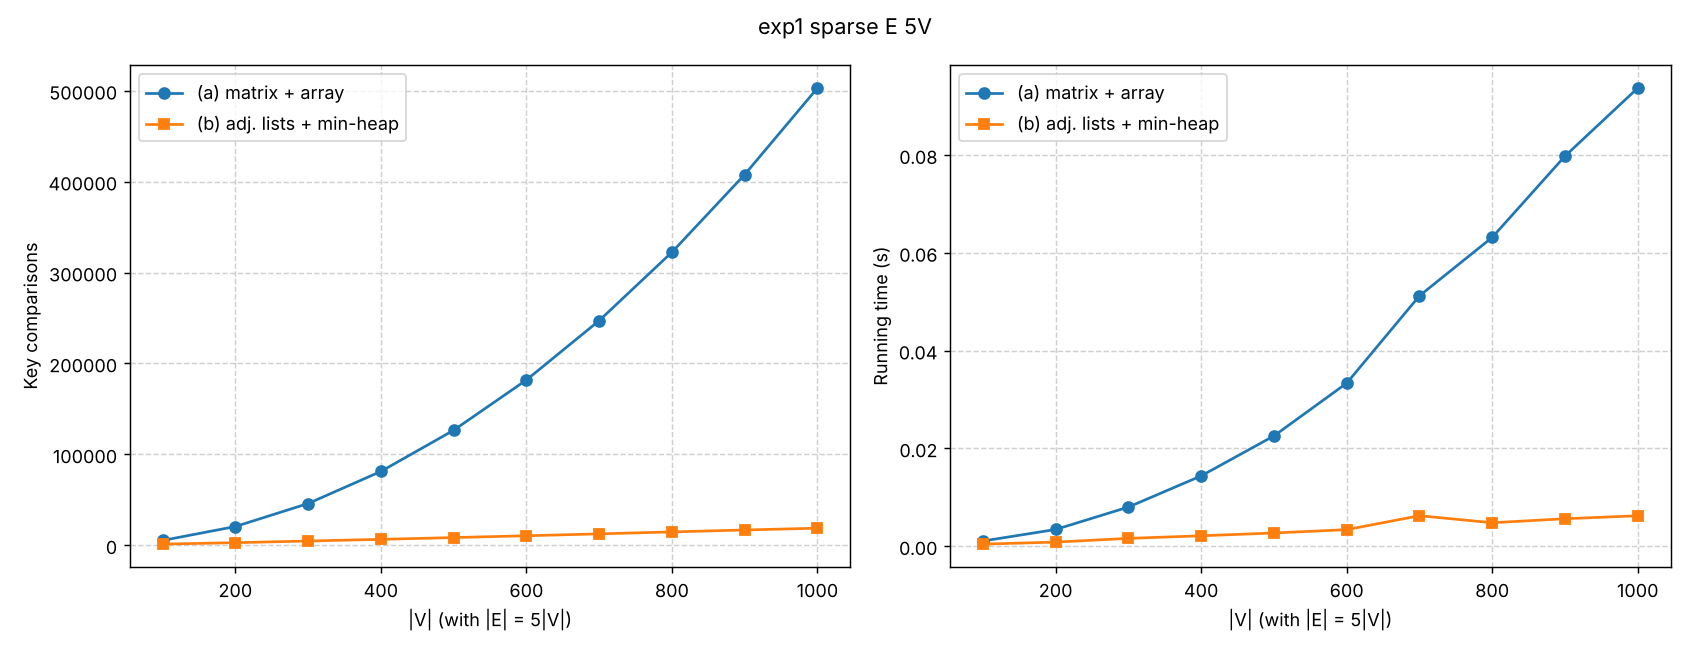
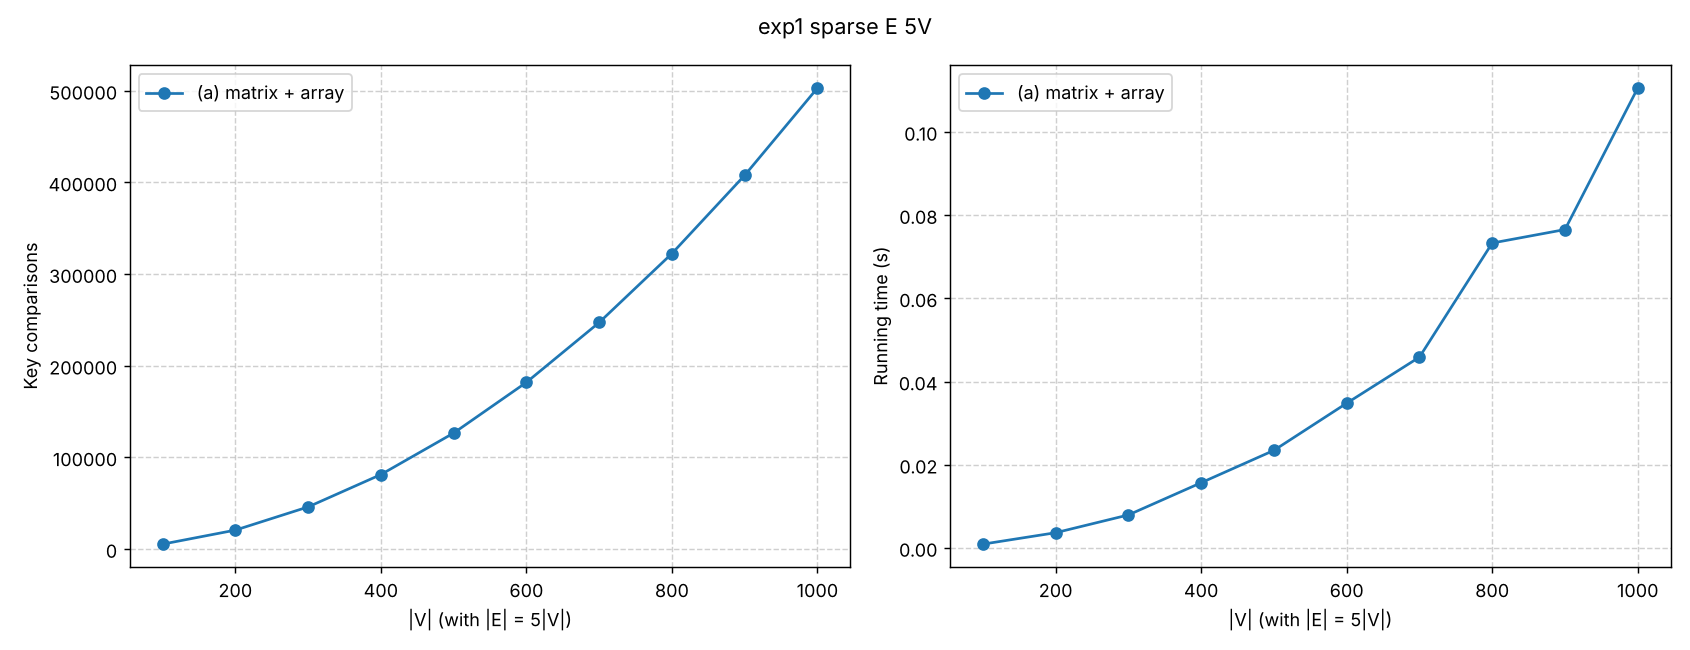
Dijkstra: keep only part (a), remove heap implementation
Claude-Session: https://claude.ai/code/session_01DbcSMLGrp8uaDGBfDz6LUR

diff --git a/dijkstra/dijkstra.py b/dijkstra/dijkstra.py
@@ -1,27 +1,19 @@
 """
-Two implementations of Dijkstra's algorithm (single source shortest paths).
+Dijkstra's algorithm (single source shortest paths), part (a):
+adjacency matrix + array as priority queue.
 
-(a) Adjacency matrix + array as priority queue
     - extract-min is a linear scan of the array          -> O(V) each
     - decrease-key is a direct array write               -> O(1) each
     - total: O(V^2) regardless of |E|
 
-(b) Array of adjacency lists + minimizing binary heap
-    - extract-min is a heap pop                          -> O(log V) each
-    - decrease-key is a sift-up (heap keeps position map)-> O(log V) each
-    - total: O((V + E) log V)
-
-Every function returns (dist, parent, comparisons) where `comparisons` is the
-number of key comparisons made (distance comparisons in the priority queue
-and in edge relaxation). This is the empirical measure used in experiments.
+Returns (dist, parent, comparisons) where `comparisons` is the number of key
+comparisons made (distance comparisons in the priority queue scan and in edge
+relaxation). This is the empirical measure used in the experiments.
 """
 
 INF = float("inf")
 
 
-# ---------------------------------------------------------------------------
-# (a) Adjacency matrix + array priority queue
-# ---------------------------------------------------------------------------
 def dijkstra_matrix_array(matrix, source):
     """matrix[u][v] = weight of edge u->v, or 0 / INF when there is no edge
     (weights are positive, so 0 is used as 'no edge' in the matrix)."""
@@ -55,101 +47,3 @@ def dijkstra_matrix_array(matrix, source):
                     dist[v] = dist[u] + w       # decrease-key, O(1)
                     parent[v] = u
     return dist, parent, comparisons
-
-
-# ---------------------------------------------------------------------------
-# (b) Adjacency lists + minimizing binary heap (with decrease-key)
-# ---------------------------------------------------------------------------
-class MinHeap:
-    """Binary min-heap of vertices keyed by dist[]; pos[] maps vertex -> index
-    so decrease-key runs in O(log V)."""
-
-    def __init__(self, dist):
-        self.dist = dist
-        self.heap = []
-        self.pos = {}
-        self.comparisons = 0
-
-    def __len__(self):
-        return len(self.heap)
-
-    def _less(self, i, j):
-        self.comparisons += 1
-        return self.dist[self.heap[i]] < self.dist[self.heap[j]]
-
-    def _swap(self, i, j):
-        h = self.heap
-        h[i], h[j] = h[j], h[i]
-        self.pos[h[i]] = i
-        self.pos[h[j]] = j
-
-    def _sift_up(self, i):
-        while i > 0:
-            p = (i - 1) // 2
-            if self._less(i, p):
-                self._swap(i, p)
-                i = p
-            else:
-                break
-
-    def _sift_down(self, i):
-        n = len(self.heap)
-        while True:
-            l, r, m = 2 * i + 1, 2 * i + 2, i
-            if l < n and self._less(l, m):
-                m = l
-            if r < n and self._less(r, m):
-                m = r
-            if m == i:
-                break
-            self._swap(i, m)
-            i = m
-
-    def push(self, v):
-        self.heap.append(v)
-        self.pos[v] = len(self.heap) - 1
-        self._sift_up(len(self.heap) - 1)
-
-    def pop_min(self):
-        top = self.heap[0]
-        last = self.heap.pop()
-        del self.pos[top]
-        if self.heap:
-            self.heap[0] = last
-            self.pos[last] = 0
-            self._sift_down(0)
-        return top
-
-    def decrease_key(self, v):
-        """dist[v] was lowered by the caller; restore heap order."""
-        self._sift_up(self.pos[v])
-
-
-def dijkstra_list_heap(adj, source):
-    """adj[u] = list of (v, weight)."""
-    n = len(adj)
-    dist = [INF] * n
-    parent = [-1] * n
-    dist[source] = 0
-    heap = MinHeap(dist)
-    heap.push(source)
-    done = [False] * n
-    comparisons = 0
-
-    while len(heap):
-        u = heap.pop_min()
-        done[u] = True
-        for v, w in adj[u]:
-            if done[v]:
-                continue
-            comparisons += 1
-            nd = dist[u] + w
-            if nd < dist[v]:
-                first_time = dist[v] == INF
-                dist[v] = nd
-                parent[v] = u
-                if first_time:
-                    heap.push(v)
-                else:
-                    heap.decrease_key(v)
-    return dist, parent, comparisons + heap.comparisons

diff --git a/dijkstra/experiments.py b/dijkstra/experiments.py
@@ -1,5 +1,5 @@
 """
-Empirical analysis of the two Dijkstra implementations.
+Empirical analysis of Dijkstra with adjacency matrix + array PQ.
 
 Exp 1: sparse graphs, E = 5V, V varies         (E grows linearly with V)
 Exp 2: dense graphs,  E = V(V-1)/2, V varies   (E grows quadratically)
@@ -17,50 +17,41 @@ import matplotlib
 matplotlib.use("Agg")
 import matplotlib.pyplot as plt
 
-from dijkstra import dijkstra_matrix_array, dijkstra_list_heap
-from graph_gen import generate_edges, to_matrix, to_adj_lists
+from dijkstra import dijkstra_matrix_array
+from graph_gen import generate_edges, to_matrix
 
 OUT = os.path.join(os.path.dirname(os.path.abspath(__file__)), "results")
 TRIALS = 3
 
 
 def measure(n, m):
-    cmp_a = cmp_b = t_a = t_b = 0.0
+    comps = secs = 0.0
     for seed in range(TRIALS):
-        edges = generate_edges(n, m, seed=seed)
-        mat, adj = to_matrix(n, edges), to_adj_lists(n, edges)
+        mat = to_matrix(n, generate_edges(n, m, seed=seed))
         t = time.perf_counter()
-        da, _, ca = dijkstra_matrix_array(mat, 0)
-        t_a += time.perf_counter() - t
-        t = time.perf_counter()
-        db, _, cb = dijkstra_list_heap(adj, 0)
-        t_b += time.perf_counter() - t
-        assert da == db
-        cmp_a += ca
-        cmp_b += cb
-    return cmp_a / TRIALS, cmp_b / TRIALS, t_a / TRIALS, t_b / TRIALS
+        _, _, c = dijkstra_matrix_array(mat, 0)
+        secs += time.perf_counter() - t
+        comps += c
+    return comps / TRIALS, secs / TRIALS
 
 
 def run(name, points, xlabel, xfunc):
     rows = []
     for n, m in points:
-        ca, cb, ta, tb = measure(n, m)
-        rows.append((n, m, ca, cb, ta, tb))
-        print(f"{name}: V={n:5d} E={m:7d}  cmp(a)={ca:12.0f} cmp(b)={cb:10.0f}"
-              f"  t(a)={ta:.4f}s t(b)={tb:.4f}s")
+        c, t = measure(n, m)
+        rows.append((n, m, c, t))
+        print(f"{name}: V={n:5d} E={m:7d}  comparisons={c:12.0f}  time={t:.4f}s")
     os.makedirs(OUT, exist_ok=True)
     with open(os.path.join(OUT, f"{name}.csv"), "w", newline="") as f:
         w = csv.writer(f)
-        w.writerow(["V", "E", "cmp_matrix_array", "cmp_list_heap",
-                    "sec_matrix_array", "sec_list_heap"])
+        w.writerow(["V", "E", "comparisons", "seconds"])
         w.writerows(rows)
 
     xs = [xfunc(n, m) for n, m, *_ in rows]
     fig, axes = plt.subplots(1, 2, figsize=(13, 5))
-    for ax, ia, ib, ylab in ((axes[0], 2, 3, "Key comparisons"),
-                             (axes[1], 4, 5, "Running time (s)")):
-        ax.plot(xs, [r[ia] for r in rows], "o-", label="(a) matrix + array")
-        ax.plot(xs, [r[ib] for r in rows], "s-", label="(b) adj. lists + min-heap")
+    for ax, i, ylab in ((axes[0], 2, "Key comparisons"),
+                        (axes[1], 3, "Running time (s)")):
+        ax.plot(xs, [r[i] for r in rows], "o-", label="(a) matrix + array")
         ax.set_xlabel(xlabel)
         ax.set_ylabel(ylab)
         ax.grid(True, linestyle="--", alpha=0.6)

diff --git a/dijkstra/test_correctness.py b/dijkstra/test_correctness.py
@@ -1,6 +1,6 @@
-"""Cross-check both implementations against heapq-based reference Dijkstra."""
+"""Cross-check the implementation against a heapq-based reference Dijkstra."""
 import heapq
-from dijkstra import dijkstra_matrix_array, dijkstra_list_heap, INF
+from dijkstra import dijkstra_matrix_array, INF
 from graph_gen import generate_edges, to_matrix, to_adj_lists
 
 
@@ -30,7 +30,6 @@ def main():
                 adj = to_adj_lists(n, e)
                 ref = reference(adj, 0)
                 assert dijkstra_matrix_array(to_matrix(n, e), 0)[0] == ref
-                assert dijkstra_list_heap(adj, 0)[0] == ref
                 cases += 1
     print(f"All {cases} cases passed.")
 

diff --git a/dijkstra/README.md b/dijkstra/README.md
@@ -1,9 +1,9 @@
-# Project 2: Dijkstra's Algorithm (SC2001)
+# Project 2 (a): Dijkstra's Algorithm with Adjacency Matrix + Array (SC2001)
 
 Files
-- `dijkstra.py` - (a) adjacency matrix + array PQ, (b) adjacency lists + binary min-heap
+- `dijkstra.py` - Dijkstra using an adjacency matrix and an array as the priority queue
 - `graph_gen.py` - random connected weighted digraphs with exact |V| and |E|
-- `test_correctness.py` - checks both against a `heapq` reference
+- `test_correctness.py` - checks the result against a `heapq` reference
 - `experiments.py` - empirical study, writes CSVs and PNGs to `results/`
 
 Run (from this folder, needs `matplotlib`):
@@ -12,45 +12,24 @@ python test_correctness.py
 python experiments.py
 ```
 
-"Key comparisons" = comparisons between distance values (PQ scans, heap sifts, relaxation tests).
+"Key comparisons" = comparisons between distance values (PQ array scan and relaxation tests).
 
-## (a) Adjacency matrix + array: Theta(|V|^2)
+## Theoretical complexity: Theta(|V|^2)
 
 - Extract-min scans the array: Theta(|V|), done |V| times -> Theta(|V|^2).
 - Each extracted vertex scans its matrix row to find neighbours: Theta(|V|), |V| times -> Theta(|V|^2).
 - Decrease-key is a single array write: O(1), at most |E| times -> O(|E|).
-- Total: Theta(|V|^2 + |E|) = Theta(|V|^2), independent of |E| (|E| <= |V|^2).
-
-## (b) Adjacency lists + min-heap: O((|V| + |E|) log |V|)
-
-- Each vertex is inserted once and extracted once: O(|V| log |V|).
-- Each edge is examined once; a successful relaxation does decrease-key (sift-up, position map kept): O(log |V|) each, so O(|E| log |V|).
-- Total: O((|V| + |E|) log |V|). For a connected graph (|E| >= |V| - 1) this is O(|E| log |V|).
-  - Sparse (|E| = O(|V|)): O(|V| log |V|).
-  - Dense (|E| = Theta(|V|^2)): O(|V|^2 log |V|).
+- Total: Theta(|V|^2 + |E|) = Theta(|V|^2), independent of |E| (since |E| <= |V|^2).
+- Space: Theta(|V|^2) for the matrix.
 
 ## Empirical results (see `results/`)
 
 | Experiment | Observation |
 |---|---|
-| exp1: E = 5V, V = 100..1000 | (a) comparisons grow ~|V|^2 (5,307 -> 503,005); (b) grows ~|V| log |V| (1,243 -> 18,802). At V = 1000 (b) is ~15x faster in time. |
-| exp2: E = V(V-1)/2, V = 100..700 | Both grow ~|V|^2 (b with extra log factor in the worst case). (b) does fewer comparisons, but its time crosses above (a) from V ~ 600 because of heap overhead (swaps, position map). |
-| exp3: V = 500, E = 499..249,500 | (a) is flat in |E| (125,749 -> 250,000 comparisons, time ~0.022-0.034 s); (b) grows with |E| (499 -> 132,907 comparisons), and becomes slower than (a) in time at the densest setting (0.047 s vs 0.034 s). |
+| exp1: E = 5V, V = 100..1000 | Comparisons grow quadratically in |V| (5,307 -> 503,005); time ~0.001 s -> ~0.11 s. |
+| exp2: E = V(V-1)/2, V = 100..700 | Also quadratic in |V| (7,531 -> 367,665). |
+| exp3: V = 500, E = 499..249,500 | Almost flat in |E| (125,749 -> 250,000 comparisons, time ~0.023-0.033 s): cost is driven by |V|, not |E|. |
 
-Note: the comparison count for (a) only counts the PQ scan and relaxation tests; the matrix row scan
-(a Theta(|V|) loop per vertex, even for non-edges) is what keeps its running time at Theta(|V|^2) and is
-visible in the timings. Timings are Python wall-clock averaged over 3 random graphs, so exact numbers vary by machine.
-
-## (c) Comparison
-
-| | (a) matrix + array | (b) lists + heap |
-|---|---|---|
-| Time | Theta(V^2) | O((V + E) log V) |
-| Space | Theta(V^2) | Theta(V + E) |
-| Depends on E? | No | Yes |
-
-- **Sparse graphs (E << V^2 / log V)**: (b) is clearly better, near-linear vs quadratic (e.g. road networks, E = O(V)).
-- **Dense graphs (E = Theta(V^2))**: (a) is better or equal: Theta(V^2) vs Theta(V^2 log V), and it has a smaller constant factor
-  (no heap swaps or position bookkeeping, simpler memory access). Crossover is roughly when E log V ~ V^2, i.e. E ~ V^2 / log V.
-- Memory: the matrix needs Theta(V^2) space even when the graph is sparse; adjacency lists need Theta(V + E).
-- A Fibonacci heap would give O(E + V log V) and beat both in theory, but is rarely faster in practice.
+Note: the comparison count only covers the PQ scan and relaxation tests; the matrix row scan
+(a Theta(|V|) loop per vertex, even for non-edges) is not counted but is reflected in the timings.
+Timings are Python wall-clock averages over 3 random graphs, so exact numbers vary by machine.
